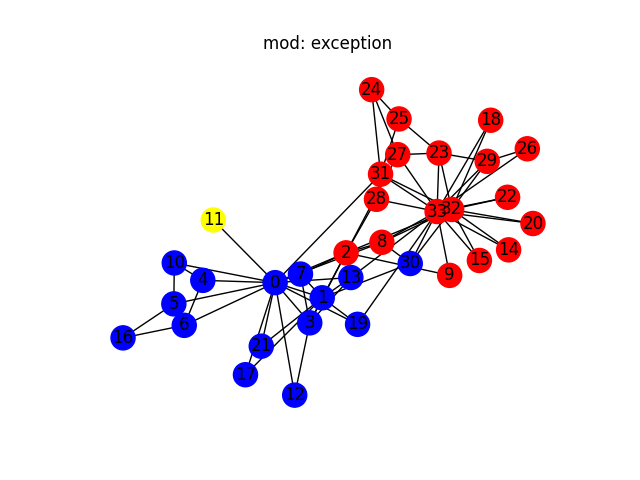
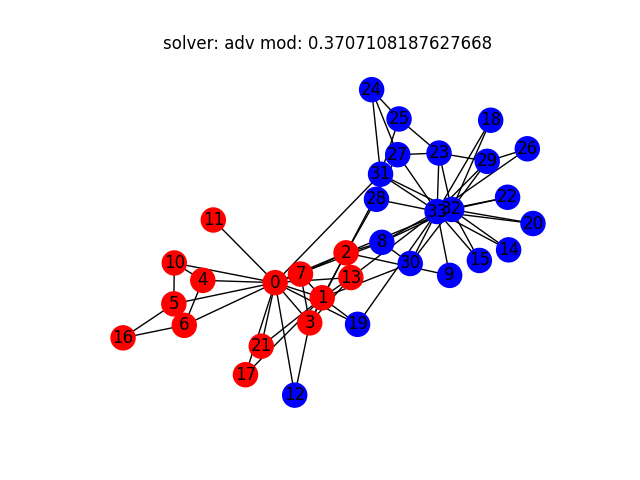
dwave adv

diff --git a/demo/advantage_demos/karate_N2.py b/demo/advantage_demos/karate_N2.py
@@ -60,32 +60,63 @@ karate_problem = CommunityDetectionProblem(
     network_data=KarateClubNetwork, N_communities=2
 )
 problem = karate_problem
-print(f"obj fun: {problem.objective_function.as_dict()}")
 
 adv_sampler = DWaveSampler(solver=dict(topology__type="pegasus"))
 sampler = adv_sampler
+solver = "adv"
 
-qubo = create_qubo(problem)
-bqm = dimod.BQM.from_qubo(qubo)
-
-# f = plt.figure()
-# nx.draw(
-#     dimod.to_networkx_graph(bqm),
-#     with_labels=True,
-#     ax=f.add_subplot(111),
+# qubo = Converter.create_qubo(problem, [1]+[0]*34)
+# qubo = create_qubo(problem)
+# binary_polynomial = dimod.BinaryPolynomial(
+#     problem.objective_function.as_dict(), dimod.BINARY
 # )
-# plt.show()
-
-embedding = minorminer.find_embedding(
-    dimod.to_networkx_graph(bqm), sampler.to_networkx_graph()
+# bqm = dimod.make_quadratic(binary_polynomial, 5.0, dimod.BINARY)
+# qubo = Converter.to_qubo(problem)
+binary_polynomial = dimod.BinaryPolynomial(
+    problem.objective_function.as_dict(), dimod.BINARY
 )
+cqm = dimod.make_quadratic_cqm(binary_polynomial)
+
+# todo this cqm can probably be initialized in some other way
+# for var in problem.discrete_variables:
+#     if str(var) not in cqm.variables:
+#         cqm.add_variable(dimod.BINARY, str(var))
+
+bqm, _ = dimod.cqm_to_bqm(cqm, lagrange_multiplier=10)
+
+# bqm = dimod.BinaryQuadraticModel.from_qubo(qubo)
+# bqm.add_variables_from('BINARY', [problem.discrete_variables])
+# print(f"bqm: {bqm}\n\n")
+# print(bqm.variables)
+
+# bqm = dimod.BQM.from_qubo(problem.objective_function.as_dict())
+# print(bqm.quadratic)
+# print(bqm.variables)
+# print(bqm.adj)
+# print(bqm.num_variables)
+# print(bmq.num_inter)
+
+f = plt.figure()
+nx.draw(
+    dimod.to_networkx_graph(bqm),
+    with_labels=True,
+    ax=f.add_subplot(111),
+)
+plt.show()
+
+# embedding = minorminer.find_embedding(
+#     dimod.to_networkx_graph(bqm), sampler.to_networkx_graph()
+# )
 sampleset = EmbeddingComposite(adv_sampler).sample(bqm)
 
 sample = sampleset.first.sample
 energy = sampleset.first.energy
 
-solution = problem.sort_dummied_encoded_solution(sample)
-decoded_solution = problem.decode_dummies_solution(solution)
+# solution = problem.sort_dummied_encoded_solution(sample)
+# decoded_solution = problem.decode_dummies_solution(solution)
+solution = sample
+decoded_solution = {int(str(key)[len('x'):]): val for key, val in solution.items()}
+
 
 print(f"solution: {solution}\n\n")
 print(f"decoded_solution: {decoded_solution}\n\n")
@@ -120,5 +151,30 @@ nx.draw(
     with_labels=True,
     ax=f.add_subplot(111),
 )
-plt.title(f"mod: {modularity}")
+plt.title(f"solver: {solver} mod: {modularity}")
 f.savefig(img_solution_path)
+
+communities_class = nx_comm.louvain_communities(problem.G, resolution=0.5)#, seed=123)
+print(communities_class)
+louvain_mod = nx_comm.modularity(problem.G, communities_class)
+print(f"modularity_lovain: {louvain_mod}")
+
+color_map = []
+for node in problem.G:
+    if node in communities_class[0]:
+        color_map.append("red")
+    elif node in communities_class[1]:
+        color_map.append("blue")
+    else:
+        color_map.append(COLORS[7])
+
+f = plt.figure()
+nx.draw(
+    problem.G,
+    pos=nx.spring_layout(problem.G, seed=123),
+    node_color=color_map,
+    with_labels=True,
+    ax=f.add_subplot(111),
+)
+plt.title(f"solver: louvain_method mod: {louvain_mod}")
+f.savefig(f"{folder}/{name}_louvain.png")

diff --git a/QHyper/problems/community_detection.py b/QHyper/problems/community_detection.py
@@ -81,9 +81,10 @@ class CommunityDetectionProblem(Problem):
         self.dummy_variables: dict = self._get_dummy_variables()
         self.variables = self._get_variables_from_dummies()
 
-        self._set_objective_function()
-        self._set_one_hot_constraints()
-        # self._set_objective_function_discrete()
+        # self._set_objective_function()
+        # self._set_one_hot_constraints()
+        self._set_objective_function_discrete()
+        self.constraints = []
 
     def _get_dummy_variables(self) -> dict:
         dummies: dict = {

diff --git a/demo/community_detection_dqm.py b/demo/community_detection_dqm.py
@@ -32,7 +32,7 @@ data_name = "Edge_AAL90_Binary"
 brain_network = BrainNetwork(input_data_dir=path, input_data_name=data_name)
 
 karate_problem = CommunityDetectionProblem(KarateClubNetwork, N_communities=2)
-brain_problem = CommunityDetectionProblem(brain_network, N_communities=4)
+# brain_problem = CommunityDetectionProblem(brain_network, N_communities=4)
 
 
 problem = karate_problem
